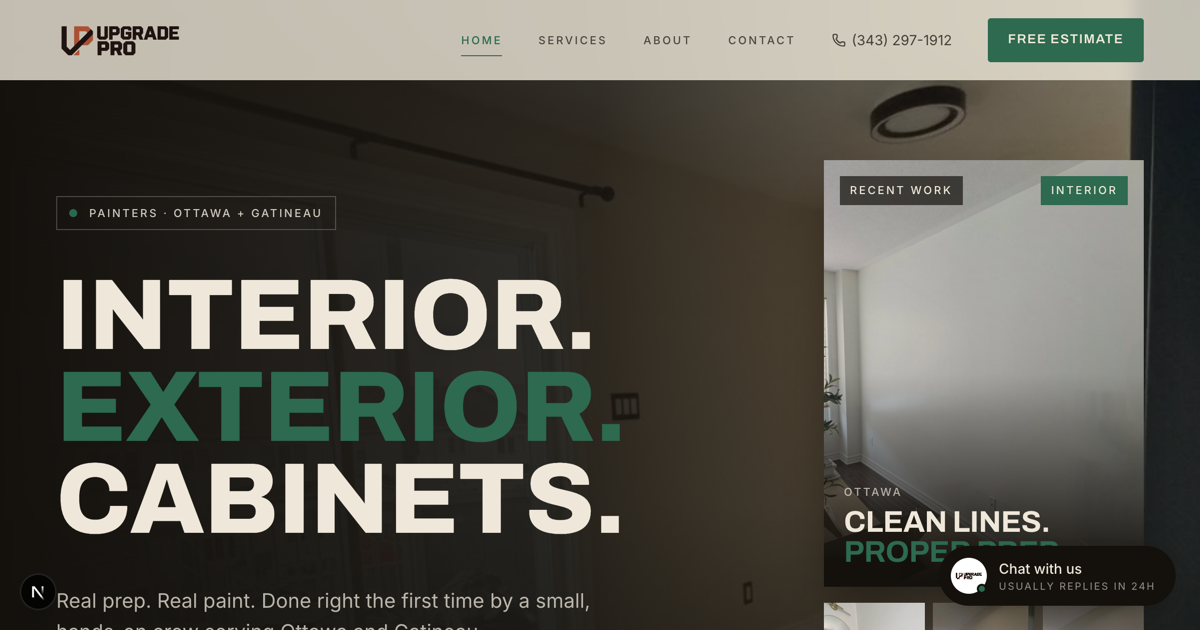
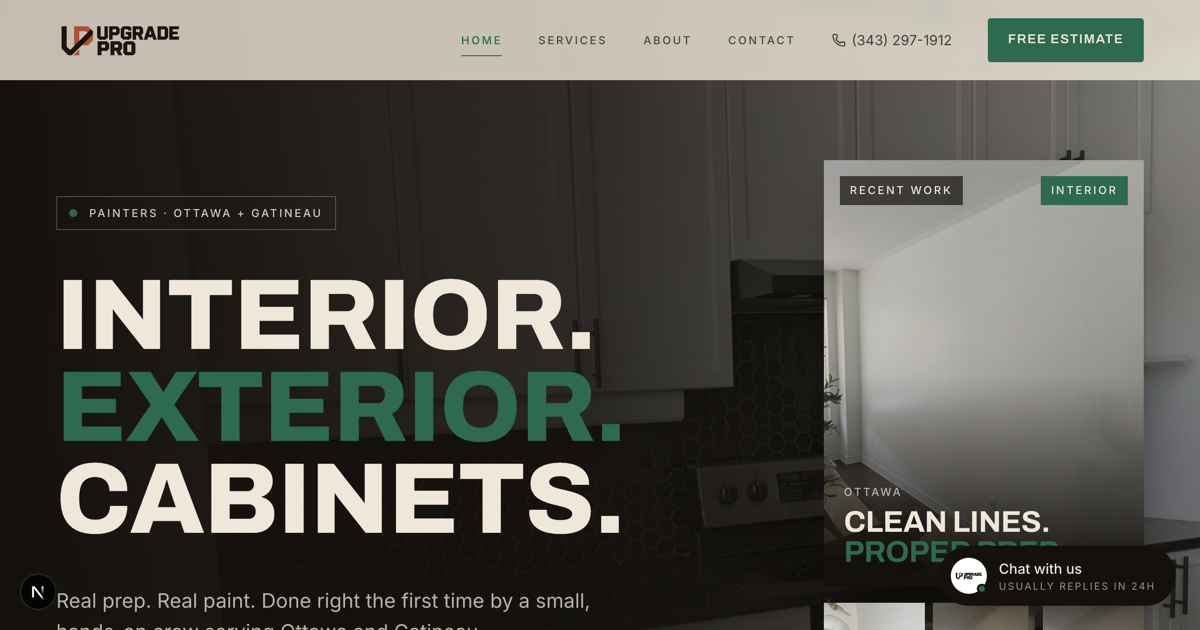
Hero → white kitchen, Vasyl portrait, lighten overlays, retake OG
- Hero backdrop swapped to land-06 (white kitchen)
- Added Vasyl portrait photo (vasyl.webp) for WhyChooseUs + About
- Lightened dark overlays across all hero sections, service cards,
  parallax, CTA, and process timeline (~15-20% reduction)
- Retook OG screenshot with new hero image

diff --git a/src/app/services/page.tsx b/src/app/services/page.tsx
@@ -36,7 +36,7 @@ export default function ServicesPage() {
           style={{ backgroundImage: `url(${sectionImages.parallax})` }}
           aria-hidden="true"
         />
-        <div className="absolute inset-0 bg-gradient-to-t from-paint-ink via-paint-ink/80 to-paint-ink/30" aria-hidden="true" />
+        <div className="absolute inset-0 bg-gradient-to-t from-paint-ink via-paint-ink/65 to-paint-ink/20" aria-hidden="true" />
 
         <div className="relative z-10 max-w-[1400px] mx-auto px-6 md:px-10 lg:px-14 w-full pt-36 md:pt-44 pb-20 md:pb-28">
           <nav aria-label="Breadcrumb" className="mb-10 flex items-center gap-2 stencil text-paint-cream/60">
@@ -81,7 +81,7 @@ export default function ServicesPage() {
                       <div className={`lg:col-span-6 ${isEven ? "lg:order-2" : ""}`}>
                         <div className="relative aspect-[5/6] overflow-hidden photo-hover group bg-paint-ink">
                           <img src={photo} alt={service.title} className="absolute inset-0 w-full h-full object-cover" />
-                          <div className="absolute inset-0 bg-gradient-to-t from-paint-ink/70 via-paint-ink/10 to-transparent" />
+                          <div className="absolute inset-0 bg-gradient-to-t from-paint-ink/55 via-paint-ink/8 to-transparent" />
                         </div>
                       </div>
 
@@ -123,7 +123,7 @@ export default function ServicesPage() {
       {/* ───────── Parallax quote ───────── */}
       <section className="relative h-[55vh] bg-paint-ink text-paint-cream flex items-end overflow-hidden">
         <div className="absolute inset-0 bg-cover bg-center" style={{ backgroundImage: `url(${galleryImages[2].src})` }} />
-        <div className="absolute inset-0 bg-gradient-to-t from-paint-ink via-paint-ink/70 to-paint-ink/20" />
+        <div className="absolute inset-0 bg-gradient-to-t from-paint-ink via-paint-ink/55 to-paint-ink/15" />
         <div className="relative z-10 max-w-[1400px] w-full mx-auto px-6 md:px-10 lg:px-14 pb-16">
           <p className="stencil text-paint-clay mb-5">From the shop</p>
           <p className="display-heavy uppercase text-[38px] sm:text-[60px] md:text-[80px] leading-[0.92] max-w-4xl">
@@ -140,7 +140,7 @@ export default function ServicesPage() {
           style={{ backgroundImage: `url(${sectionImages.cta})` }}
           aria-hidden="true"
         />
-        <div className="absolute inset-0 bg-gradient-to-r from-paint-ink via-paint-ink/80 to-paint-ink/40" aria-hidden="true" />
+        <div className="absolute inset-0 bg-gradient-to-r from-paint-ink via-paint-ink/65 to-paint-ink/30" aria-hidden="true" />
         <div className="relative z-10 max-w-[1400px] mx-auto px-6 md:px-10 lg:px-14 py-24 md:py-32">
           <div className="grid grid-cols-1 lg:grid-cols-12 gap-10 items-end">
             <div className="lg:col-span-8">

diff --git a/src/app/about/page.tsx b/src/app/about/page.tsx
@@ -34,7 +34,7 @@ export default function AboutPage() {
           style={{ backgroundImage: `url(${galleryImages[0].src})` }}
           aria-hidden="true"
         />
-        <div className="absolute inset-0 bg-gradient-to-t from-paint-ink via-paint-ink/80 to-paint-ink/30" aria-hidden="true" />
+        <div className="absolute inset-0 bg-gradient-to-t from-paint-ink via-paint-ink/65 to-paint-ink/20" aria-hidden="true" />
 
         <div className="relative z-10 max-w-[1400px] mx-auto px-6 md:px-10 lg:px-14 w-full pt-36 md:pt-44 pb-20 md:pb-28">
           <nav aria-label="Breadcrumb" className="mb-10 flex items-center gap-2 stencil text-paint-cream/60">
@@ -132,7 +132,7 @@ export default function AboutPage() {
           style={{ backgroundImage: `url(${galleryImages[5].src})` }}
           aria-hidden="true"
         />
-        <div className="absolute inset-0 bg-gradient-to-b from-paint-ink via-paint-ink/90 to-paint-ink" aria-hidden="true" />
+        <div className="absolute inset-0 bg-gradient-to-b from-paint-ink via-paint-ink/80 to-paint-ink" aria-hidden="true" />
 
         <div className="relative z-10 max-w-[1400px] mx-auto px-6 md:px-10 lg:px-14">
           <ScrollReveal>

diff --git a/src/components/home/CtaBanner.tsx b/src/components/home/CtaBanner.tsx
@@ -8,7 +8,7 @@ export default function CtaBanner() {
   return (
     <section aria-label="Call to action" className="relative bg-paint-ink text-paint-cream overflow-hidden">
       <div className="absolute inset-0 bg-cover bg-top opacity-60" style={{ backgroundImage: `url(${sectionImages.cta})` }} aria-hidden="true" />
-      <div className="absolute inset-0 bg-gradient-to-r from-paint-ink via-paint-ink/80 to-paint-ink/40" aria-hidden="true" />
+      <div className="absolute inset-0 bg-gradient-to-r from-paint-ink via-paint-ink/65 to-paint-ink/30" aria-hidden="true" />
 
       <div className="relative z-10 max-w-[1400px] mx-auto px-6 md:px-10 lg:px-14 py-24 md:py-32 lg:py-40">
         <div className="grid grid-cols-1 lg:grid-cols-12 gap-10 items-end">

diff --git a/src/components/home/ProcessTimeline.tsx b/src/components/home/ProcessTimeline.tsx
@@ -14,7 +14,7 @@ export default function ProcessTimeline() {
   return (
     <section className="relative bg-paint-ink text-paint-cream py-24 md:py-32 overflow-hidden">
       <div className="absolute inset-0 bg-cover bg-top opacity-20" style={{ backgroundImage: `url(${sectionImages.parallax})` }} aria-hidden="true" />
-      <div className="absolute inset-0 bg-gradient-to-b from-paint-ink via-paint-ink/95 to-paint-ink" aria-hidden="true" />
+      <div className="absolute inset-0 bg-gradient-to-b from-paint-ink via-paint-ink/85 to-paint-ink" aria-hidden="true" />
 
       <div className="relative z-10 max-w-[1400px] mx-auto px-6 md:px-10 lg:px-14">
         <div className="grid grid-cols-1 lg:grid-cols-12 gap-8 items-end mb-14 md:mb-20">

diff --git a/src/data/company.ts b/src/data/company.ts
@@ -40,15 +40,18 @@ export const vert = [1,2,3].map((n) => img(`/photos/vert-${String(n).padStart(2,
 
 /* Hero allocations */
 export const heroImages = {
-  main:    wide[0],      // full-bleed hero backdrop
+  main:    land[5],      // white kitchen — full-bleed hero backdrop
   portrait: tall[0],     // hero inset portrait card
   thumbs:  [tall[1], tall[2], tall[3]],
 };
 
+/* Vasyl portrait */
+export const vasylPhoto = img("/photos/vasyl.webp");
+
 /* Section backdrops */
 export const sectionImages = {
   stats:    wide[1],
-  whyUs:    vert[0],     // tall portrait for "the crew" side
+  whyUs:    vasylPhoto,  // Vasyl portrait for "the crew" side
   parallax: wide[2],
   cta:      wide[6],
   area:     wide[5],

diff --git a/src/app/contact/page.tsx b/src/app/contact/page.tsx
@@ -36,7 +36,7 @@ export default function ContactPage() {
           style={{ backgroundImage: `url(${galleryImages[3].src})` }}
           aria-hidden="true"
         />
-        <div className="absolute inset-0 bg-gradient-to-t from-paint-ink via-paint-ink/85 to-paint-ink/40" aria-hidden="true" />
+        <div className="absolute inset-0 bg-gradient-to-t from-paint-ink via-paint-ink/65 to-paint-ink/25" aria-hidden="true" />
 
         <div className="relative z-10 max-w-[1400px] mx-auto px-6 md:px-10 lg:px-14 w-full pt-36 md:pt-44 pb-16 md:pb-24">
           <nav aria-label="Breadcrumb" className="mb-10 flex items-center gap-2 stencil text-paint-cream/60">

diff --git a/src/components/home/ParallaxBreak.tsx b/src/components/home/ParallaxBreak.tsx
@@ -11,7 +11,7 @@ export default function ParallaxBreak() {
         style={{ backgroundImage: `url(${sectionImages.parallax})` }}
         aria-hidden="true"
       />
-      <div className="absolute inset-0 bg-gradient-to-t from-paint-ink via-paint-ink/70 to-paint-ink/20" aria-hidden="true" />
+      <div className="absolute inset-0 bg-gradient-to-t from-paint-ink via-paint-ink/55 to-paint-ink/15" aria-hidden="true" />
 
       <div className="relative z-10 w-full max-w-[1400px] mx-auto px-6 md:px-10 lg:px-14 pb-16 md:pb-20">
         <span className="stencil text-paint-clay mb-5 block">The Studio</span>

diff --git a/src/components/home/ServiceGrid.tsx b/src/components/home/ServiceGrid.tsx
@@ -47,7 +47,7 @@ export default function ServiceGrid() {
                   alt={service.title}
                   className="absolute inset-0 w-full h-full object-cover"
                 />
-                <div className="absolute inset-0 bg-gradient-to-t from-paint-ink via-paint-ink/55 to-paint-ink/15" />
+                <div className="absolute inset-0 bg-gradient-to-t from-paint-ink via-paint-ink/40 to-paint-ink/10" />
 
                 {/* Arrow */}
                 <div className="absolute top-5 right-5 text-paint-cream">
